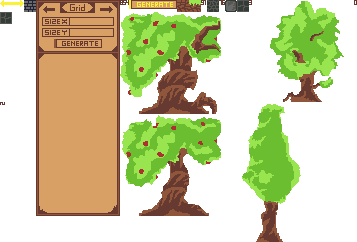
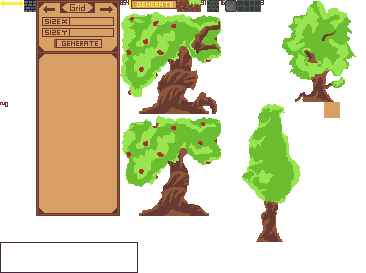
all

diff --git a/editor.h b/editor.h
@@ -6,35 +6,31 @@
 #include <vector>
 #include "stb_image.h"
 #include "mouse.h"
+#include "keyboard.h"
 
-GLfloat editorQuad[]{
-	-210.0f, 540.0f, 0.0f, 0.1008403361344538f, 0.0f,
-	210.0f, 540.0f, 0.0f, 0.3361344537815126f, 0.0f,
-	210.0f, -540.0f, 0.0f, 0.3361344537815126f, 0.8925619834710744f,
-	-210.0f, -540.0f, 0.0f, 0.1008403361344538f, 0.8925619834710744f
+struct EditorVertices {
+	glm::vec3 position[4];
+	glm::vec2 texture[4];
 };
 
-GLint editorQuadIndices[]{
-	0, 1, 2,
-	0, 2, 3
-};
-
-GLfloat editorUserInput[]{
-	-50.0f, 100.0f, 0.0f, 0.0f, 0.0f,
-	50.0f, 100.0f, 0.0f, 1.0f, 0.0f,
-	50.0f, -100.0f, 0.0f, 1.0f, 1.0f,
-	-50.0f, -100.0f, 0.0f, 0.0f, 1.0f
-};
-
-GLint editorUserInputIndices[]{
-	4, 5, 6,
-	4, 6, 7
+struct EditorIndices {
+	int indices[6];
 };
 
 GLuint editorVAO{}, editorVBO{}, editorEBO{}, editorTexture{};
 
-std::vector<float>verticesEditor{};
-std::vector<int>indicesEditor{};
+std::vector<EditorVertices>verticesEditor{};
+std::vector<EditorIndices>indicesEditor{};
+std::vector<GLfloat>flattenedVertices{};
+std::vector<GLint>flattenedIndices{};
+
+extern float xpos;
+extern float ypos;
+
+bool q1textured = false;
+bool q2textured = false;
+bool q3textured = false;
+
 
 struct Editor {
 
@@ -61,90 +57,203 @@ struct Editor {
 	}
 
 	void populateEditor() {
-		//Editor Menu
-		float v1{ editorQuad[0] }, v2{ editorQuad[1] }, v3{ editorQuad[2] }, v4{ editorQuad[3] }, v5{ editorQuad[4] },
-			v6{ editorQuad[5] }, v7{ editorQuad[6] }, v8{ editorQuad[7] }, v9{ editorQuad[8] }, v10{ editorQuad[9] },
-			v11{ editorQuad[10] }, v12{ editorQuad[11] }, v13{ editorQuad[12] }, v14{ editorQuad[13] }, v15{ editorQuad[14] },
-			v16{ editorQuad[15] }, v17{ editorQuad[16] }, v18{ editorQuad[17] }, v19{ editorQuad[18] }, v20{ editorQuad[19] };
-		int i1{ editorQuadIndices[0] }, i2{ editorQuadIndices[1] }, i3{ editorQuadIndices[2] }, i4{ editorQuadIndices[3] }, i5{ editorQuadIndices[4] },
-			i6{ editorQuadIndices[5] };
-
-		verticesEditor.push_back(v1);
-		verticesEditor.push_back(v2);
-		verticesEditor.push_back(v3);
-		verticesEditor.push_back(v4);
-		verticesEditor.push_back(v5);
-		verticesEditor.push_back(v6);
-		verticesEditor.push_back(v7);
-		verticesEditor.push_back(v8);
-		verticesEditor.push_back(v9);
-		verticesEditor.push_back(v10);
-		verticesEditor.push_back(v11);
-		verticesEditor.push_back(v12);
-		verticesEditor.push_back(v13);
-		verticesEditor.push_back(v14);
-		verticesEditor.push_back(v15);
-		verticesEditor.push_back(v16);
-		verticesEditor.push_back(v17);
-		verticesEditor.push_back(v18);
-		verticesEditor.push_back(v19);
-		verticesEditor.push_back(v20);
-
-		indicesEditor.push_back(i1);
-		indicesEditor.push_back(i2);
-		indicesEditor.push_back(i3);
-		indicesEditor.push_back(i4);
-		indicesEditor.push_back(i5);
-		indicesEditor.push_back(i6);
-
-		//text menu
-		float v21{ editorUserInput[0] }, v22{ editorUserInput[1] }, v23{ editorUserInput[2] }, v24{ editorUserInput[3] }, v25{ editorUserInput[4] },
-			v26{ editorUserInput[5] }, v27{ editorUserInput[6] }, v28{ editorUserInput[7] }, v29{ editorUserInput[8] }, v30{ editorUserInput[9] },
-			v31{ editorUserInput[10] }, v32{ editorUserInput[11] }, v33{ editorUserInput[12] }, v34{ editorUserInput[13] }, v35{ editorUserInput[14] },
-			v36{ editorUserInput[15] }, v37{ editorUserInput[16] }, v38{ editorUserInput[17] }, v39{ editorUserInput[18] }, v40{ editorUserInput[19] };
-		int i7{ editorUserInputIndices[0] }, i8{ editorUserInputIndices[1] }, i9{ editorUserInputIndices[2] }, i10{ editorUserInputIndices[3] }, i11{ editorUserInputIndices[4] },
-			i12{ editorUserInputIndices[5] };
-
-		verticesEditor.push_back(v21);
-		verticesEditor.push_back(v22);
-		verticesEditor.push_back(v23);
-		verticesEditor.push_back(v24);
-		verticesEditor.push_back(v25);
-		verticesEditor.push_back(v26);
-		verticesEditor.push_back(v27);
-		verticesEditor.push_back(v28);
-		verticesEditor.push_back(v29);
-		verticesEditor.push_back(v30);
-		verticesEditor.push_back(v31);
-		verticesEditor.push_back(v32);
-		verticesEditor.push_back(v33);
-		verticesEditor.push_back(v34);
-		verticesEditor.push_back(v35);
-		verticesEditor.push_back(v36);
-		verticesEditor.push_back(v37);
-		verticesEditor.push_back(v38);
-		verticesEditor.push_back(v39);
-		verticesEditor.push_back(v40);
-
-		indicesEditor.push_back(i7);
-		indicesEditor.push_back(i8);
-		indicesEditor.push_back(i9);
-		indicesEditor.push_back(i10);
-		indicesEditor.push_back(i11);
-		indicesEditor.push_back(i12);
+		//Editor UI   (0)
+		EditorVertices vertex;
+		vertex.position[0] = glm::vec3(1500.0f, 1080.0f, 0.0f);
+		vertex.position[1] = glm::vec3(1920.0f, 1080.0f, 0.0f);
+		vertex.position[2] = glm::vec3(1920.0f, 0.0f, 0.0f);
+		vertex.position[3] = glm::vec3(1500.0f, 0.0f, 0.0f);
+		vertex.texture[0] = glm::vec2(0.0983606557377049f, 0.0f); //bottom left
+		vertex.texture[1] = glm::vec2(0.3278688524590164f, 0.0f); // bottom right
+		vertex.texture[2] = glm::vec2(0.3278688524590164f, 0.7912087912087912f); //top left
+		vertex.texture[3] = glm::vec2(0.0983606557377049f, 0.7912087912087912f); //top right
+		verticesEditor.push_back(vertex);
+		//Text input 1	(1)
+		vertex.position[0] = glm::vec3(1700.0f, 986.0f, 0.0f);
+		vertex.position[1] = glm::vec3(1722.0f, 986.0f, 0.0f);
+		vertex.position[2] = glm::vec3(1722.0f, 955.0f, 0.0f);
+		vertex.position[3] = glm::vec3(1700.0f, 955.0f, 0.0f);
+		vertex.texture[0] = glm::vec2(0.8852459016393443f, 0.3736263736263736f);
+		vertex.texture[1] = glm::vec2(0.9289617486338798f, 0.3736263736263736f);
+		vertex.texture[2] = glm::vec2(0.9289617486338798f, 0.4322344322344322f);
+		vertex.texture[3] = glm::vec2(0.8852459016393443f, 0.4322344322344322f);
+		verticesEditor.push_back(vertex);
+		//Text input 2 (2)
+		vertex.position[0] = glm::vec3(1724.0f, 986.0f, 0.0f);
+		vertex.position[1] = glm::vec3(1746.0f, 986.0f, 0.0f);
+		vertex.position[2] = glm::vec3(1746.0f, 955.0f, 0.0f);
+		vertex.position[3] = glm::vec3(1724.0f, 955.0f, 0.0f);
+		vertex.texture[0] = glm::vec2(0.8852459016393443f, 0.3736263736263736f);
+		vertex.texture[1] = glm::vec2(0.9289617486338798f, 0.3736263736263736f);
+		vertex.texture[2] = glm::vec2(0.9289617486338798f, 0.4322344322344322f);
+		vertex.texture[3] = glm::vec2(0.8852459016393443f, 0.4322344322344322f);
+		verticesEditor.push_back(vertex);
+		//Text input 3	(3)
+		vertex.position[0] = glm::vec3(1748.0f, 986.0f, 0.0f);
+		vertex.position[1] = glm::vec3(1770.0f, 986.0f, 0.0f);
+		vertex.position[2] = glm::vec3(1770.0f, 955.0f, 0.0f);
+		vertex.position[3] = glm::vec3(1748.0f, 955.0f, 0.0f);
+		vertex.texture[0] = glm::vec2(0.8852459016393443f, 0.3736263736263736f);
+		vertex.texture[1] = glm::vec2(0.9289617486338798f, 0.3736263736263736f);
+		vertex.texture[2] = glm::vec2(0.9289617486338798f, 0.4322344322344322f);
+		vertex.texture[3] = glm::vec2(0.8852459016393443f, 0.4322344322344322f);
+		verticesEditor.push_back(vertex);
+		//Text input 4	(4)
+		vertex.position[0] = glm::vec3(1772.0f, 986.0f, 0.0f);
+		vertex.position[1] = glm::vec3(1794.0f, 986.0f, 0.0f);
+		vertex.position[2] = glm::vec3(1794.0f, 955.0f, 0.0f);
+		vertex.position[3] = glm::vec3(1772.0f, 955.0f, 0.0f);
+		vertex.texture[0] = glm::vec2(0.8852459016393443f, 0.3736263736263736f);
+		vertex.texture[1] = glm::vec2(0.9289617486338798f, 0.3736263736263736f);
+		vertex.texture[2] = glm::vec2(0.9289617486338798f, 0.4322344322344322f);
+		vertex.texture[3] = glm::vec2(0.8852459016393443f, 0.4322344322344322f);
+		verticesEditor.push_back(vertex);
+		//Text input 5 (5)
+		vertex.position[0] = glm::vec3(1796.0f, 986.0f, 0.0f);
+		vertex.position[1] = glm::vec3(1818.0f, 986.0f, 0.0f);
+		vertex.position[2] = glm::vec3(1818.0f, 955.0f, 0.0f);
+		vertex.position[3] = glm::vec3(1796.0f, 955.0f, 0.0f);
+		vertex.texture[0] = glm::vec2(0.8852459016393443f, 0.3736263736263736f);
+		vertex.texture[1] = glm::vec2(0.9289617486338798f, 0.3736263736263736f);
+		vertex.texture[2] = glm::vec2(0.9289617486338798f, 0.4322344322344322f);
+		vertex.texture[3] = glm::vec2(0.8852459016393443f, 0.4322344322344322f);
+		verticesEditor.push_back(vertex);
+		//Text input Container 6 (6)
+		vertex.position[0] = glm::vec3(1690.0f, 988.0f, 0.0f);
+		vertex.position[1] = glm::vec3(1828.0f, 988.0f, 0.0f);
+		vertex.position[2] = glm::vec3(1828.0f, 957.0f, 0.0f);
+		vertex.position[3] = glm::vec3(1690.0f, 957.0f, 0.0f);
+		vertex.texture[0] = glm::vec2(0.0f, 0.8864468864468864f);
+		vertex.texture[1] = glm::vec2(0.3770491803278689f, 0.8864468864468864f);
+		vertex.texture[2] = glm::vec2(0.3770491803278689f, 1.0f);
+		vertex.texture[3] = glm::vec2(0.0f, 1.0f);
+		verticesEditor.push_back(vertex);
+		//PUSH THEM ALL TO THE VECTOR - FLATTENING VERTICES
+		for (auto& vertex : verticesEditor) {
+			for (int i = 0; i < 4; i++) {
+				flattenedVertices.push_back(vertex.position[i].x);
+				flattenedVertices.push_back(vertex.position[i].y);
+				flattenedVertices.push_back(vertex.position[i].z);
+				flattenedVertices.push_back(vertex.texture[i].x);
+				flattenedVertices.push_back(vertex.texture[i].y);
+			}
+		}
+		EditorIndices index;
+		//Editor UI
+		index.indices[0] = 0; index.indices[1] = 1; index.indices[2] = 2;
+		index.indices[3] = 0; index.indices[4] = 2; index.indices[5] = 3;
+		indicesEditor.push_back(index);
+		//Text Input 1
+		index.indices[0] = 4; index.indices[1] = 5; index.indices[2] = 6;
+		index.indices[3] = 4; index.indices[4] = 6; index.indices[5] = 7;
+		indicesEditor.push_back(index);
+		//Text Input 2
+		index.indices[0] = 8; index.indices[1] = 9; index.indices[2] = 10;
+		index.indices[3] = 8; index.indices[4] = 10; index.indices[5] = 11;
+		indicesEditor.push_back(index);
+		//Text Input 3
+		index.indices[0] = 12; index.indices[1] = 13; index.indices[2] = 14;
+		index.indices[3] = 12; index.indices[4] = 14; index.indices[5] = 15;
+		indicesEditor.push_back(index);
+		//Text Input 4
+		index.indices[0] = 16; index.indices[1] = 17; index.indices[2] = 18;
+		index.indices[3] = 16; index.indices[4] = 18; index.indices[5] = 19;
+		indicesEditor.push_back(index);
+		//Text Input 5
+		index.indices[0] = 20; index.indices[1] = 21; index.indices[2] = 22;
+		index.indices[3] = 20; index.indices[4] = 22; index.indices[5] = 23;
+		indicesEditor.push_back(index);
+		//Text Input Container 6
+		index.indices[0] = 24; index.indices[1] = 25; index.indices[2] = 26;
+		index.indices[3] = 24; index.indices[4] = 26; index.indices[5] = 27;
+		indicesEditor.push_back(index);
+		//PUSH THEM ALL TO THE VECTOR - FLATTENING INDICES
+		for (auto& index : indicesEditor) {
+			for (int i = 0; i < 6; i++) {
+				flattenedIndices.push_back(index.indices[i]);
+			}
+		}
 	}	
 	
+	void interactiveEditor(GLFWwindow* window) {
+		if (xpos > 1700 && xpos < 1818 && ypos > 955 && ypos < 986) {
+			if (keyPressed) {
+				//verticesEditor.at(1).texture[0];
+				flattenedVertices.at(23) = 0.5573770491803279;
+				flattenedVertices.at(24) = 0.0f;
+				//verticesEditor.at(1).texture[1];
+				flattenedVertices.at(28) = 0.5655737704918033f;
+				flattenedVertices.at(29) = 0.0f;
+				//verticesEditor.at(1).texture[2];
+				flattenedVertices.at(33) = 0.5655737704918033f;
+				flattenedVertices.at(34) = 0.021978021978022f;
+				//verticesEditor.at(1).texture[3];
+				flattenedVertices.at(38) = 0.5573770491803279f;
+				flattenedVertices.at(39) = 0.021978021978022f;
+				//====================================================================================
+				glBindBuffer(GL_ARRAY_BUFFER, editorVBO);
+				glBufferSubData(GL_ARRAY_BUFFER, 0, sizeof(GLfloat) * flattenedVertices.size(), flattenedVertices.data());
+				glBindVertexArray(editorVAO);
+			}
+			else if (keyReleased) {
+				q1textured = true;
+			}
+			if (keyPressed && q1textured) {
+				//verticesEditor.at(1).texture[0];
+				flattenedVertices.at(43) = 0.5573770491803279;
+				flattenedVertices.at(44) = 0.0f;
+				//verticesEditor.at(1).texture[1];
+				flattenedVertices.at(48) = 0.5655737704918033f;
+				flattenedVertices.at(49) = 0.0f;
+				//verticesEditor.at(1).texture[2];
+				flattenedVertices.at(53) = 0.5655737704918033f;
+				flattenedVertices.at(54) = 0.021978021978022f;
+				//verticesEditor.at(1).texture[3];
+				flattenedVertices.at(58) = 0.5573770491803279f;
+				flattenedVertices.at(59) = 0.021978021978022f;
+				//====================================================================================
+				glBindBuffer(GL_ARRAY_BUFFER, editorVBO);
+				glBufferSubData(GL_ARRAY_BUFFER, 0, sizeof(GLfloat) * flattenedVertices.size(), flattenedVertices.data());
+				glBindVertexArray(editorVAO);
+			}
+			else if (keyReleased && q1textured) {
+				q2textured = true;
+			}
+			if (keyPressed && q2textured) {
+				//verticesEditor.at(1).texture[0];
+				flattenedVertices.at(63) = 0.5573770491803279;
+				flattenedVertices.at(64) = 0.0f;
+				//verticesEditor.at(1).texture[1];
+				flattenedVertices.at(68) = 0.5655737704918033f;
+				flattenedVertices.at(69) = 0.0f;
+				//verticesEditor.at(1).texture[2];
+				flattenedVertices.at(73) = 0.5655737704918033f;
+				flattenedVertices.at(74) = 0.021978021978022f;
+				//verticesEditor.at(1).texture[3];
+				flattenedVertices.at(78) = 0.5573770491803279f;
+				flattenedVertices.at(79) = 0.021978021978022f;
+				//====================================================================================
+				glBindBuffer(GL_ARRAY_BUFFER, editorVBO);
+				glBufferSubData(GL_ARRAY_BUFFER, 0, sizeof(GLfloat) * flattenedVertices.size(), flattenedVertices.data());
+				glBindVertexArray(editorVAO);
+			}
+			else if (keyReleased && q2textured) {
+				q3textured = true;
+			}
+		}
+	}
+
 	void createEditor() {
 		createVertexArrays(1, editorVAO);
-		createBufferObjects(GL_ARRAY_BUFFER, 1, editorVBO, 5 * verticesEditor.size() * sizeof(verticesEditor[0]), verticesEditor.data(), GL_STATIC_DRAW);
+		createBufferObjects(GL_ARRAY_BUFFER, 1, editorVBO, flattenedVertices.size() * sizeof(GLfloat), flattenedVertices.data(), GL_STATIC_DRAW);
 		interpretData(0, 3, GL_FLOAT, GL_FALSE, 5 * sizeof(float), (void*)0, 0);
 		interpretData(1, 2, GL_FLOAT, GL_FALSE, 5 * sizeof(float), (void*)(3 * sizeof(float)), 1);
-		createBufferObjects(GL_ELEMENT_ARRAY_BUFFER, 1, editorEBO, indicesEditor.size() * sizeof(int), indicesEditor.data(), GL_STATIC_DRAW);
+		createBufferObjects(GL_ELEMENT_ARRAY_BUFFER, 1, editorEBO, flattenedIndices.size() * sizeof(GLint), flattenedIndices.data(), GL_STATIC_DRAW);
 	}
 
 	void drawEditor() {
 		glBindVertexArray(editorVAO);
-		glDrawElements(GL_TRIANGLES, indicesEditor.size(), GL_UNSIGNED_INT, 0);
+		glDrawElements(GL_TRIANGLES, static_cast<GLsizei>(flattenedIndices.size()), GL_UNSIGNED_INT, 0);
 		glBindVertexArray(0);
 	}
 

diff --git a/main.cpp b/main.cpp
@@ -12,6 +12,7 @@
 #include "grid.h"
 #include "menu.h"
 #include "editor.h"
+#include "keyboard.h"
 
 #define STB_IMAGE_IMPLEMENTATION
 #include "stb_image.h"
@@ -45,6 +46,7 @@ int main() {
 	glfwMakeContextCurrent(window);
 	glfwSetCursorPosCallback(window, mouse_callback);
 	glfwSetMouseButtonCallback(window, mouse_button_callback);
+	glfwSetKeyCallback(window, key_callback);
 
 	if (glewInit() != GLEW_OK) {
 		std::cerr << "GLEW failed to initialize" << std::endl;
@@ -83,7 +85,7 @@ int main() {
 	//======================= Grid =================================
 	Grid grid;
 	grid.loadTexture();
-	grid.populateGrid(60, 60);
+	grid.populateGrid(0, 1);
 	grid.createGrid();
 	//====================== Editor ================================
 	Editor editor;
@@ -128,11 +130,11 @@ int main() {
 			glUseProgram(shaderProgramEditor);
 			camera.useCamera(shaderProgram);
 			glm::mat4 editorMatrix = glm::mat4(1.0f);
-			editorMatrix = glm::translate(editorMatrix, glm::vec3(1710.0f, 540.0f, 0.0f));
 			GLuint editorMatrixLocation = glGetUniformLocation(shaderProgramEditor, "transform");
 			glUniformMatrix4fv(editorMatrixLocation, 1, GL_FALSE, glm::value_ptr(editorMatrix));
 			editor.activateAtlas(shaderProgramEditor);
 			editor.drawEditor();
+			editor.interactiveEditor(window);
 
 			break;
 		}

diff --git a/keyboard.h b/keyboard.h
@@ -1,0 +1,21 @@
+#pragma once
+
+#include <GLFW/glfw3.h>
+
+extern float xpos;
+extern float ypos;
+
+bool keyPressed = false;
+bool keyReleased = false;
+
+void key_callback(GLFWwindow* window, int key, int scancode, int action, int mods)
+{
+    if (key == GLFW_KEY_1 && action == GLFW_PRESS) {
+        keyPressed = true;
+        keyReleased = false;
+    }
+    else if (key == GLFW_KEY_1 && action == GLFW_RELEASE) {
+        keyPressed = false;
+        keyReleased = true;
+    }
+}
